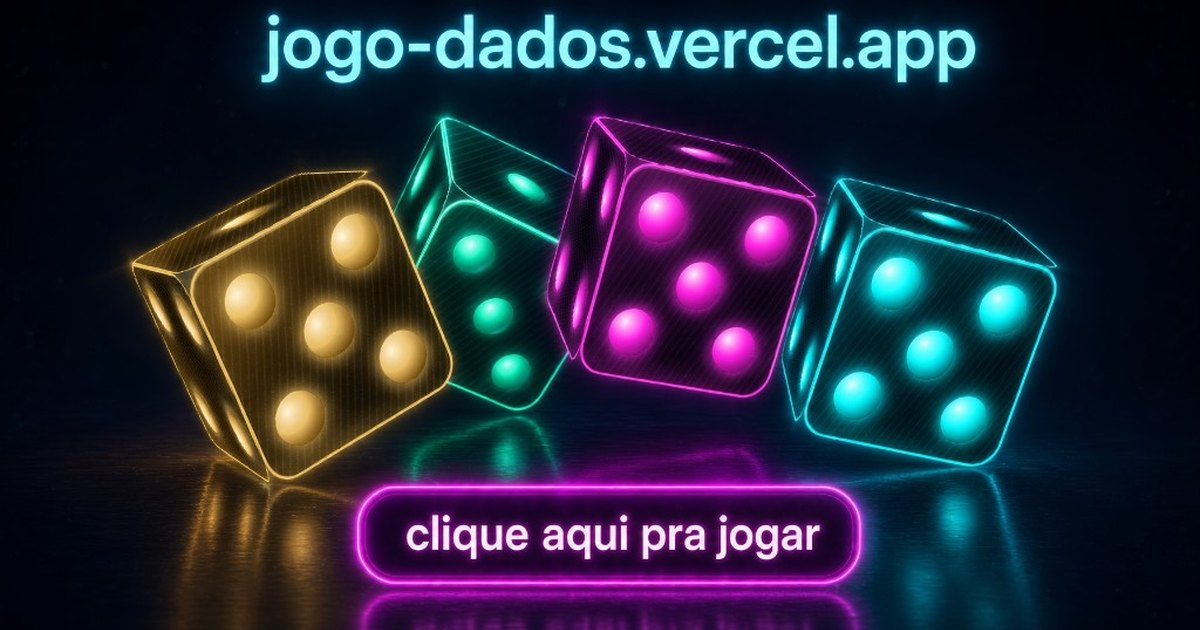
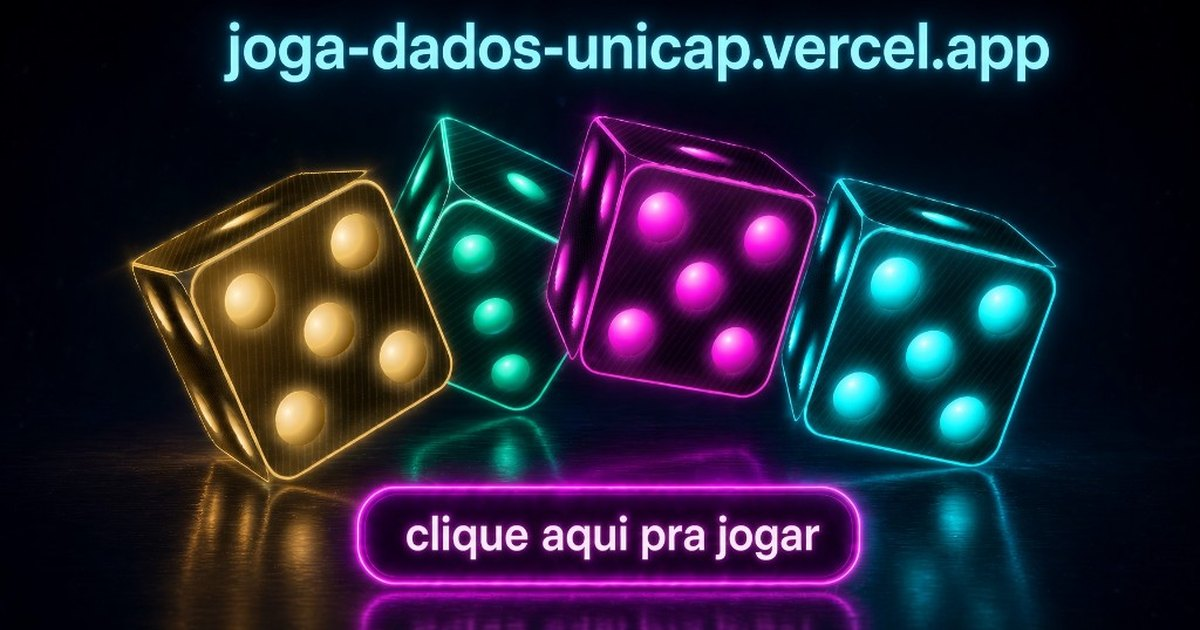
feat(seo): aponta Open Graph para joga-dados-unicap

diff --git a/app/layout.js b/app/layout.js
@@ -23,7 +23,7 @@ const jakarta = Plus_Jakarta_Sans({
   variable: '--font-ui',
 });
 
-const siteUrl = 'https://jogo-dados-ashen.vercel.app';
+const siteUrl = 'https://joga-dados-unicap.vercel.app';
 
 export const metadata = {
   metadataBase: new URL(siteUrl),
